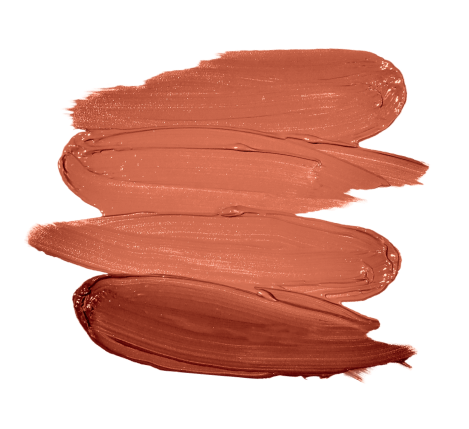
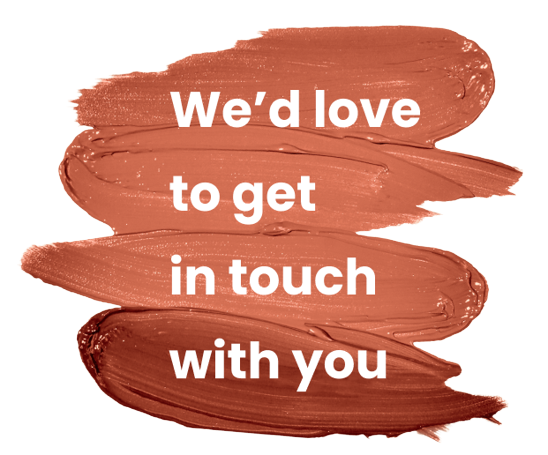
Added some text

Changed region(s): [[0.0299, 0.0303, 0.9552, 0.9697]]

diff --git a/frontend/src/components/contact_us/ContactUs.css b/frontend/src/components/contact_us/ContactUs.css
@@ -5,32 +5,59 @@
 .img1 {
     width:80%; 
     height: 40%;
-}
+}*/
 
 .img2 {
-    width:10%; 
-    height: 40%;
-} */
+    position: absolute;
+    width: 439.99px;
+    height: 396.16px;
+    left: 110px;
+    top: 150px;
+} 
 
-.head-text {
-    position: relative;
-    /* text-align: centre;
-    padding-top: 50px; */
-    color: white;
- }
- .text-on-image {
-   position: absolute;
-   right: 10px;
-  left: 10px;
-  bottom: 10px;
- }
+.heading {
+    position: absolute;
+    width: 538px;
+    height: 144px;
+    left: 675px;
+    top: 100px;
+
+    font-family: 'Poppins';
+    font-style: normal;
+    font-weight: 600;
+    font-size: 60px;
+    line-height: 140px;
+}
 
  .dashed-box {
-    position: relative;
     z-index: 1;
     border: solid;
+    /* position: relative;
     height: 8em;
     margin-bottom: 1em;
-    margin-top: 2em;
+    margin-top: 2em; */
+
+    position: relative;
+    width: 950px;
+    height: 737px;
+    left: 771px;
+    top: 250px;
+    bottom: 700px; 
+  }
+
+  .question{
+
+    position: absolute;
+    width: 365px;
+    height: 145px;
+    left: 264px;
+    top: 620px;
+
+    /* font-family: 'ariel'; */
+    font-style: normal;
+    font-weight: 600;
+    font-size: 15px;
+    line-height: 20px;
+
   }
  

diff --git a/frontend/src/components/contact_us/ContactUs.js b/frontend/src/components/contact_us/ContactUs.js
@@ -7,17 +7,17 @@ import './ContactUs.css';
 function ContactUs(){
     return (
         <div>
-            <h1 style={{textAlign: "center"}}> Contact Us</h1>
-            {/* <div class="dashed-box">Dashed box</div> */}
-            <div className = "head-text">
-                <div className = "head-image">
-                    <img src={paints}></img>
-                </div>
-                <div class="text-on-image">
-                    <h3>We'd love to get in touch with you</h3>
-                </div>
-
+            <h1 style={{textAlign: "center"}} className = "heading"> Contact Us</h1>
+            { <div class="dashed-box"></div> }
+            <img className='img2' src={paints}></img>
+            <div className = "question"> 
+                <h3 style={{textAlign:"Left"}}>Have questions about</h3>
+                <h3 style={{textAlign:"Left"}}>features, pricing, services or</h3>
+                <h3 style={{textAlign:"Left"}}>simply want to reach out?</h3>
+                <h3 style={{textAlign:"Left"}}>Our team would love to help.</h3>
             </div>
+            
+
         </div>
     );
 }
